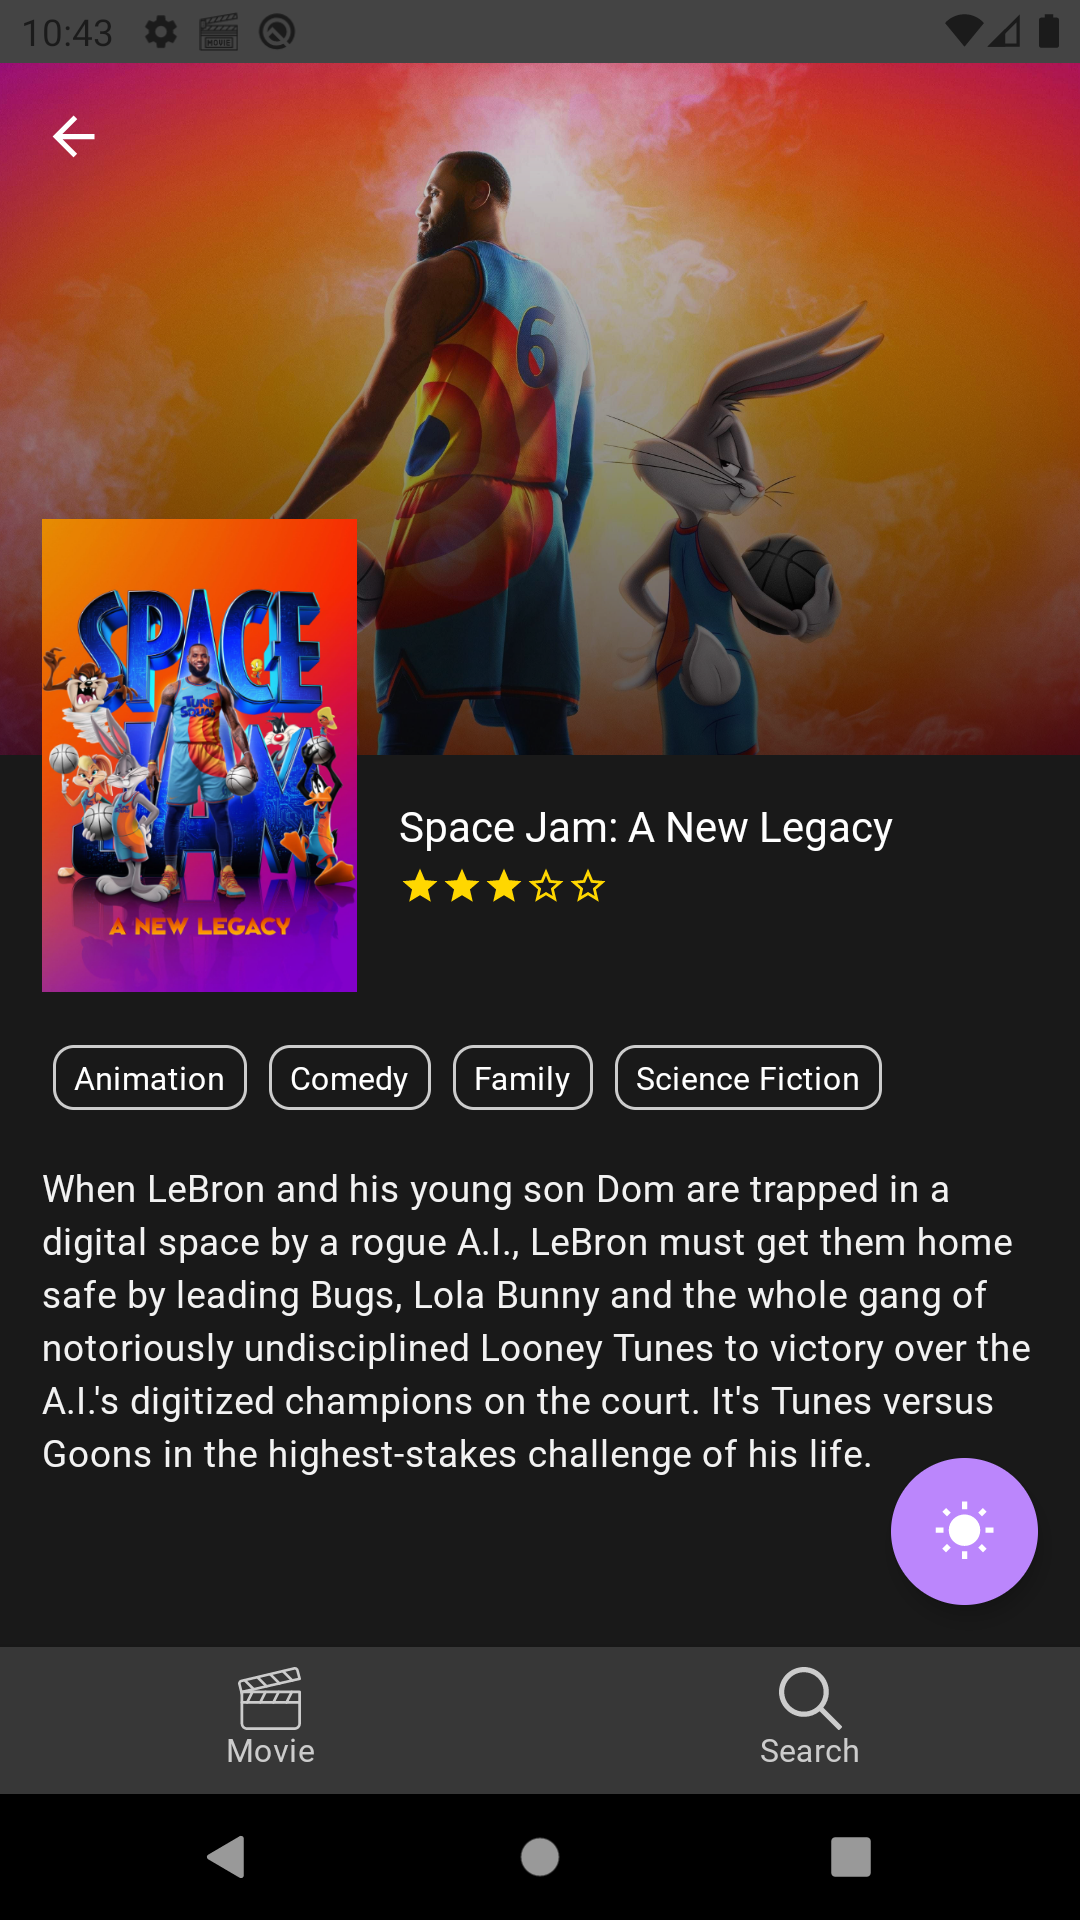
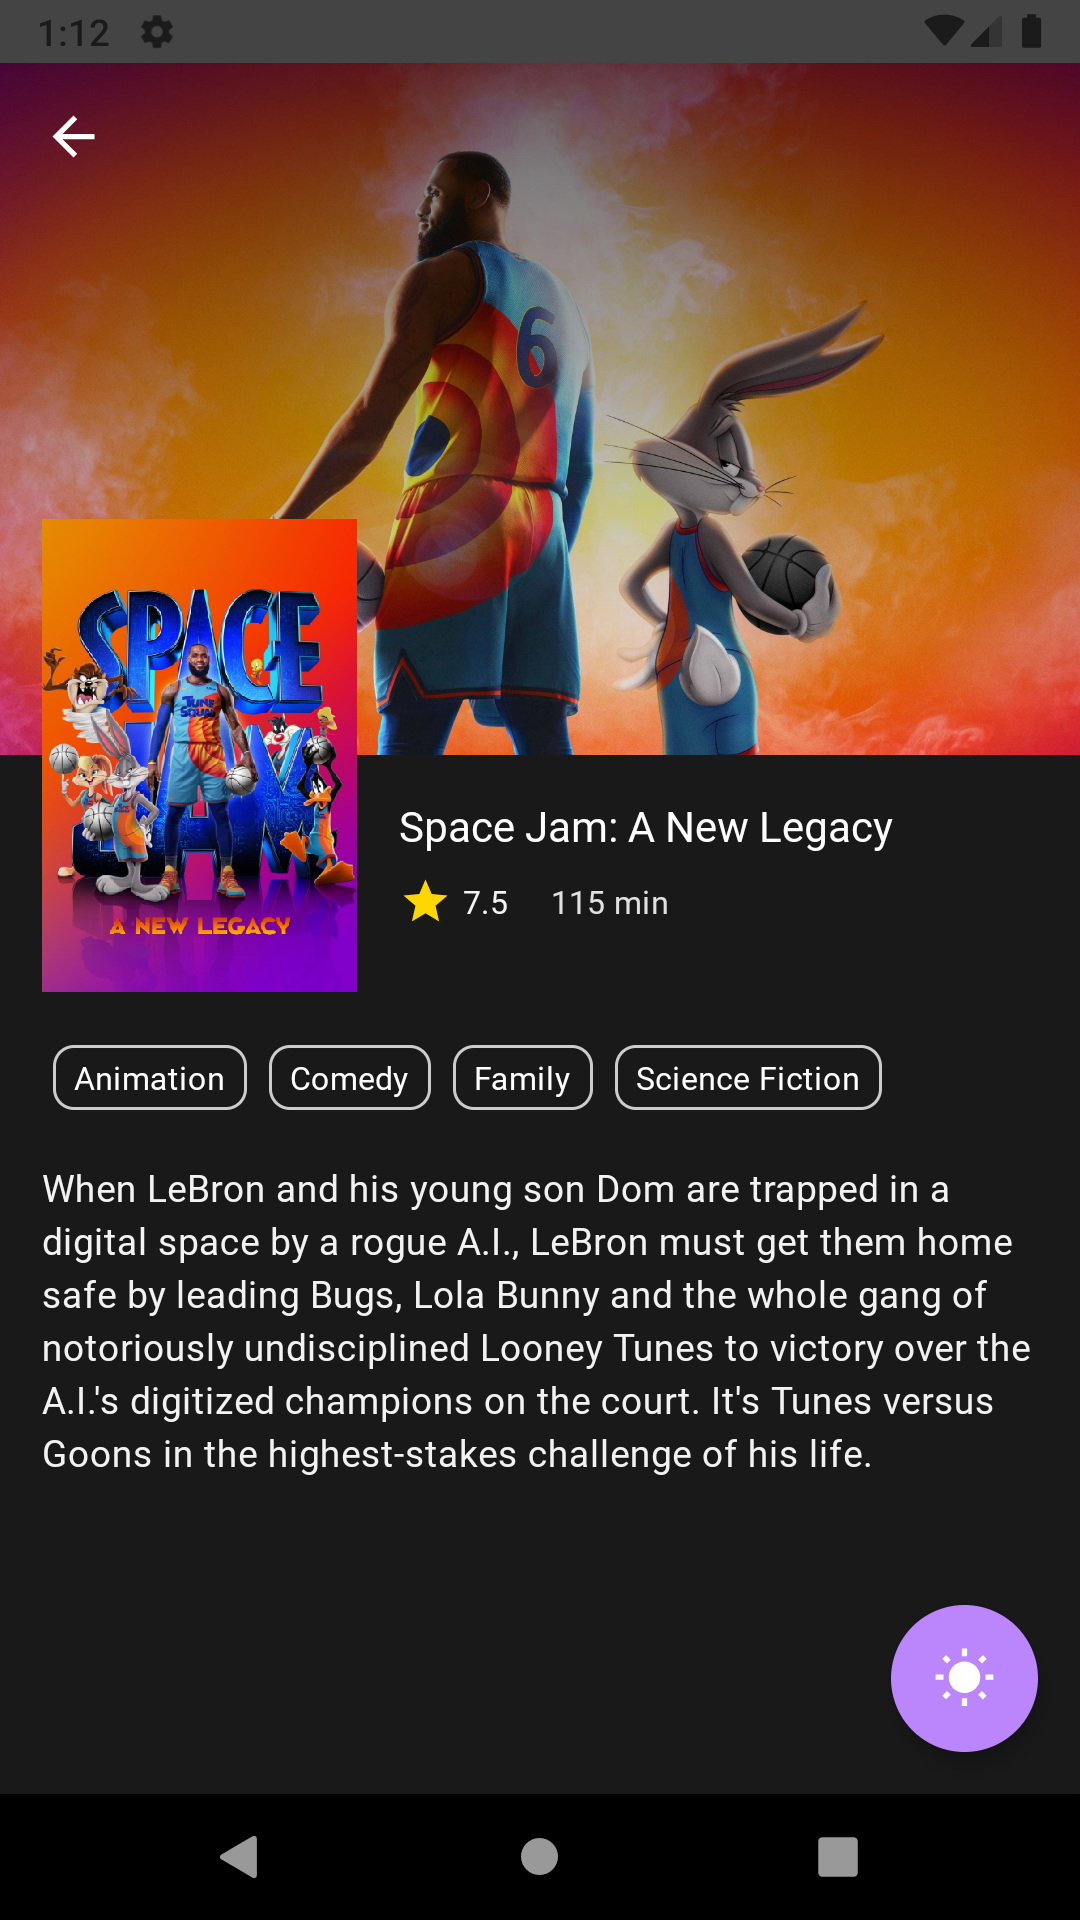
Updated detail screenshots

diff --git a/app/src/main/java/com/caner/composemoviedb/ui/screen/MovieDetailScreen.kt b/app/src/main/java/com/caner/composemoviedb/ui/screen/MovieDetailScreen.kt
@@ -16,7 +16,6 @@ import androidx.compose.runtime.LaunchedEffect
 import androidx.compose.runtime.collectAsState
 import androidx.compose.ui.Alignment
 import androidx.compose.ui.Modifier
-import androidx.compose.ui.draw.alpha
 import androidx.compose.ui.draw.clip
 import androidx.compose.ui.graphics.Brush
 import androidx.compose.ui.graphics.Color
@@ -28,7 +27,7 @@ import com.caner.composemoviedb.data.MovieDetailModel
 import com.caner.composemoviedb.data.remote.MovieGenre
 import com.caner.composemoviedb.presentation.MovieDetailViewModel
 import com.caner.composemoviedb.ui.component.MoviePoster
-import com.caner.composemoviedb.ui.component.RatingBar
+import com.caner.composemoviedb.ui.component.MovieRating
 import com.caner.composemoviedb.ui.theme.*
 import com.google.accompanist.flowlayout.FlowRow
 
@@ -104,12 +103,14 @@ fun MovieTopSection(data: MovieDetailModel, navigateUp: () -> Unit) {
                     color = MaterialTheme.colors.onPrimary
                 )
 
-                RatingBar(
-                    range = 1..5,
-                    isLargeRating = false,
-                    isSelectable = false,
-                    currentRating = (data.voteAverage / 2).toInt()
-                )
+                Row(verticalAlignment = Alignment.CenterVertically) {
+                    MovieRating(voteAverage = data.voteAverage.toString(), size = 20.dp)
+                    Text(
+                        text = "${data.runtime} min",
+                        style = MaterialTheme.typography.caption,
+                        modifier = Modifier.padding(start = 16.dp)
+                    )
+                }
             }
         }
     }
@@ -122,25 +123,19 @@ fun MovieBackdropSection(backdrop: String?, navigateUp: () -> Unit) {
             .fillMaxWidth()
             .fillMaxHeight(0.4f)
     ) {
-        MoviePoster(
-            poster = backdrop, modifier = Modifier
-                .fillMaxSize()
-                .alpha(0.85f)
-        )
-
+        MoviePoster(poster = backdrop, modifier = Modifier.fillMaxSize())
         Box(
             modifier = Modifier
                 .fillMaxSize()
                 .background(
                     Brush.verticalGradient(
                         colors = listOf(
-                            BLACK_TRANSPARENT,
-                            BLACK_TRANSPARENT_60
+                            BLACK_TRANSPARENT_60,
+                            BLACK_TRANSPARENT
                         )
                     )
                 )
         )
-
         Icon(
             imageVector = Icons.Default.ArrowBack,
             tint = Color.White,

diff --git a/app/src/main/java/com/caner/composemoviedb/ui/screen/MovieScreen.kt b/app/src/main/java/com/caner/composemoviedb/ui/screen/MovieScreen.kt
@@ -5,11 +5,8 @@ import androidx.compose.foundation.layout.*
 import androidx.compose.foundation.lazy.LazyRow
 import androidx.compose.foundation.lazy.items
 import androidx.compose.material.Card
-import androidx.compose.material.Icon
 import androidx.compose.material.MaterialTheme
 import androidx.compose.material.Text
-import androidx.compose.material.icons.Icons
-import androidx.compose.material.icons.filled.Star
 import androidx.compose.runtime.*
 import androidx.compose.ui.Alignment
 import androidx.compose.ui.Alignment.Companion.BottomStart
@@ -18,7 +15,6 @@ import androidx.compose.ui.Modifier
 import androidx.compose.ui.draw.alpha
 import androidx.compose.ui.draw.clip
 import androidx.compose.ui.graphics.Color
-import androidx.compose.ui.res.colorResource
 import androidx.compose.ui.res.stringResource
 import androidx.compose.ui.text.font.FontWeight
 import androidx.compose.ui.text.style.TextOverflow
@@ -33,6 +29,7 @@ import com.caner.composemoviedb.common.Resource
 import com.caner.composemoviedb.data.Movie
 import com.caner.composemoviedb.presentation.MovieViewModel
 import com.caner.composemoviedb.ui.component.MoviePoster
+import com.caner.composemoviedb.ui.component.MovieRating
 import com.caner.composemoviedb.ui.state.ErrorItem
 import com.caner.composemoviedb.ui.state.ErrorView
 import com.caner.composemoviedb.ui.state.LoadingItem
@@ -161,24 +158,7 @@ fun MovieItem(item: Movie?, click: (String) -> Unit) {
                 style = MaterialTheme.typography.caption,
             )
 
-            Row(
-                modifier = Modifier.padding(vertical = 8.dp),
-                horizontalArrangement = Arrangement.Center,
-                verticalAlignment = Alignment.CenterVertically
-            ) {
-                Icon(
-                    imageVector = Icons.Default.Star,
-                    tint = colorResource(id = R.color.gold),
-                    contentDescription = null,
-                    modifier = Modifier.size(20.dp)
-                )
-                Text(
-                    text = item?.voteAverage.toString(),
-                    style = MaterialTheme.typography.caption,
-                    color = MaterialTheme.colors.secondary,
-                    modifier = Modifier.padding(start = 4.dp)
-                )
-            }
+            MovieRating(voteAverage = item?.voteAverage.toString(), size = 20.dp)
         }
     }
 }

diff --git a/app/src/main/java/com/caner/composemoviedb/ui/component/TextDrawable.kt b/app/src/main/java/com/caner/composemoviedb/ui/component/TextDrawable.kt
@@ -1,0 +1,40 @@
+package com.caner.composemoviedb.ui.component
+
+import androidx.compose.foundation.layout.Arrangement
+import androidx.compose.foundation.layout.Row
+import androidx.compose.foundation.layout.padding
+import androidx.compose.foundation.layout.size
+import androidx.compose.material.Icon
+import androidx.compose.material.MaterialTheme
+import androidx.compose.material.Text
+import androidx.compose.material.icons.Icons
+import androidx.compose.material.icons.filled.Star
+import androidx.compose.runtime.Composable
+import androidx.compose.ui.Alignment
+import androidx.compose.ui.Modifier
+import androidx.compose.ui.res.colorResource
+import androidx.compose.ui.unit.Dp
+import androidx.compose.ui.unit.dp
+import com.caner.composemoviedb.R
+
+@Composable
+fun MovieRating(voteAverage: String, size: Dp, modifier: Modifier = Modifier) {
+    Row(
+        modifier = modifier.padding(vertical = 8.dp),
+        horizontalArrangement = Arrangement.Center,
+        verticalAlignment = Alignment.CenterVertically
+    ) {
+        Icon(
+            imageVector = Icons.Default.Star,
+            tint = colorResource(id = R.color.gold),
+            contentDescription = null,
+            modifier = Modifier.size(size)
+        )
+        Text(
+            text = voteAverage,
+            style = MaterialTheme.typography.caption,
+            color = MaterialTheme.colors.secondary,
+            modifier = Modifier.padding(start = 4.dp)
+        )
+    }
+}
